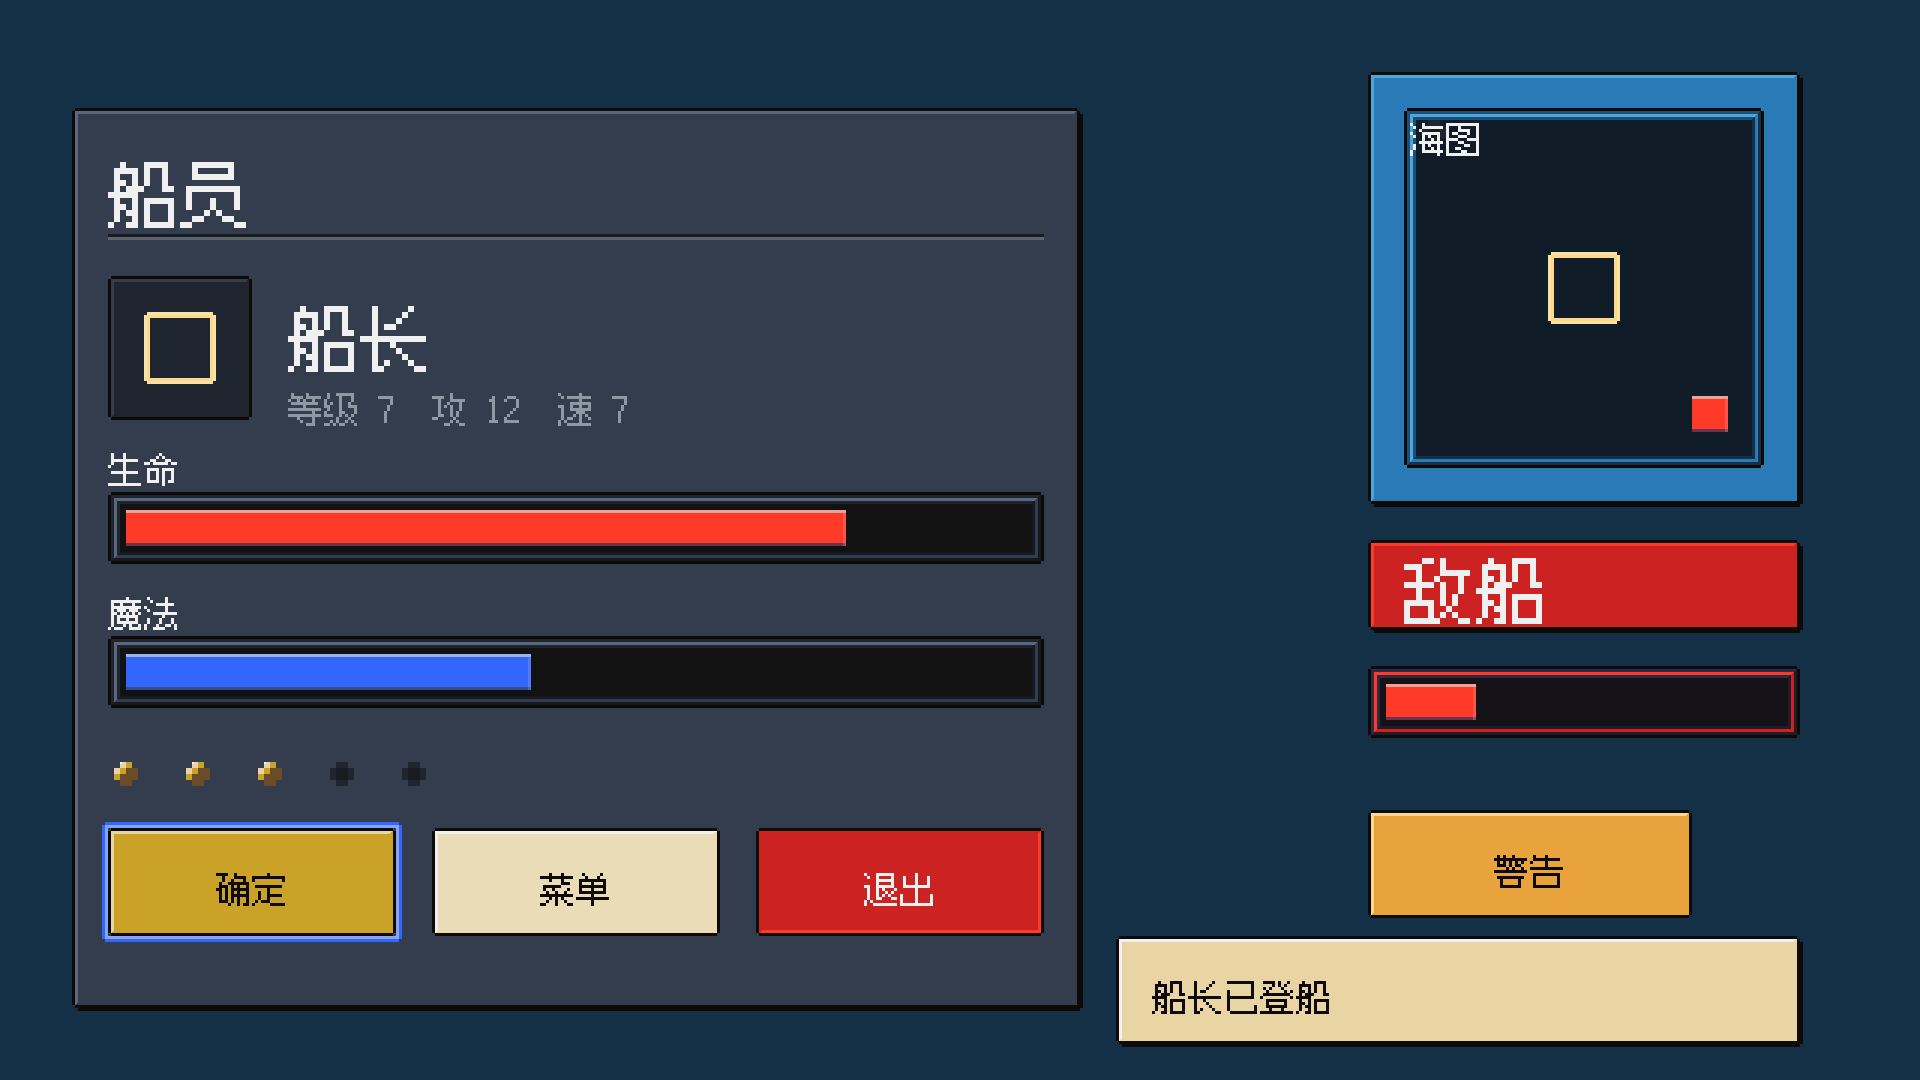
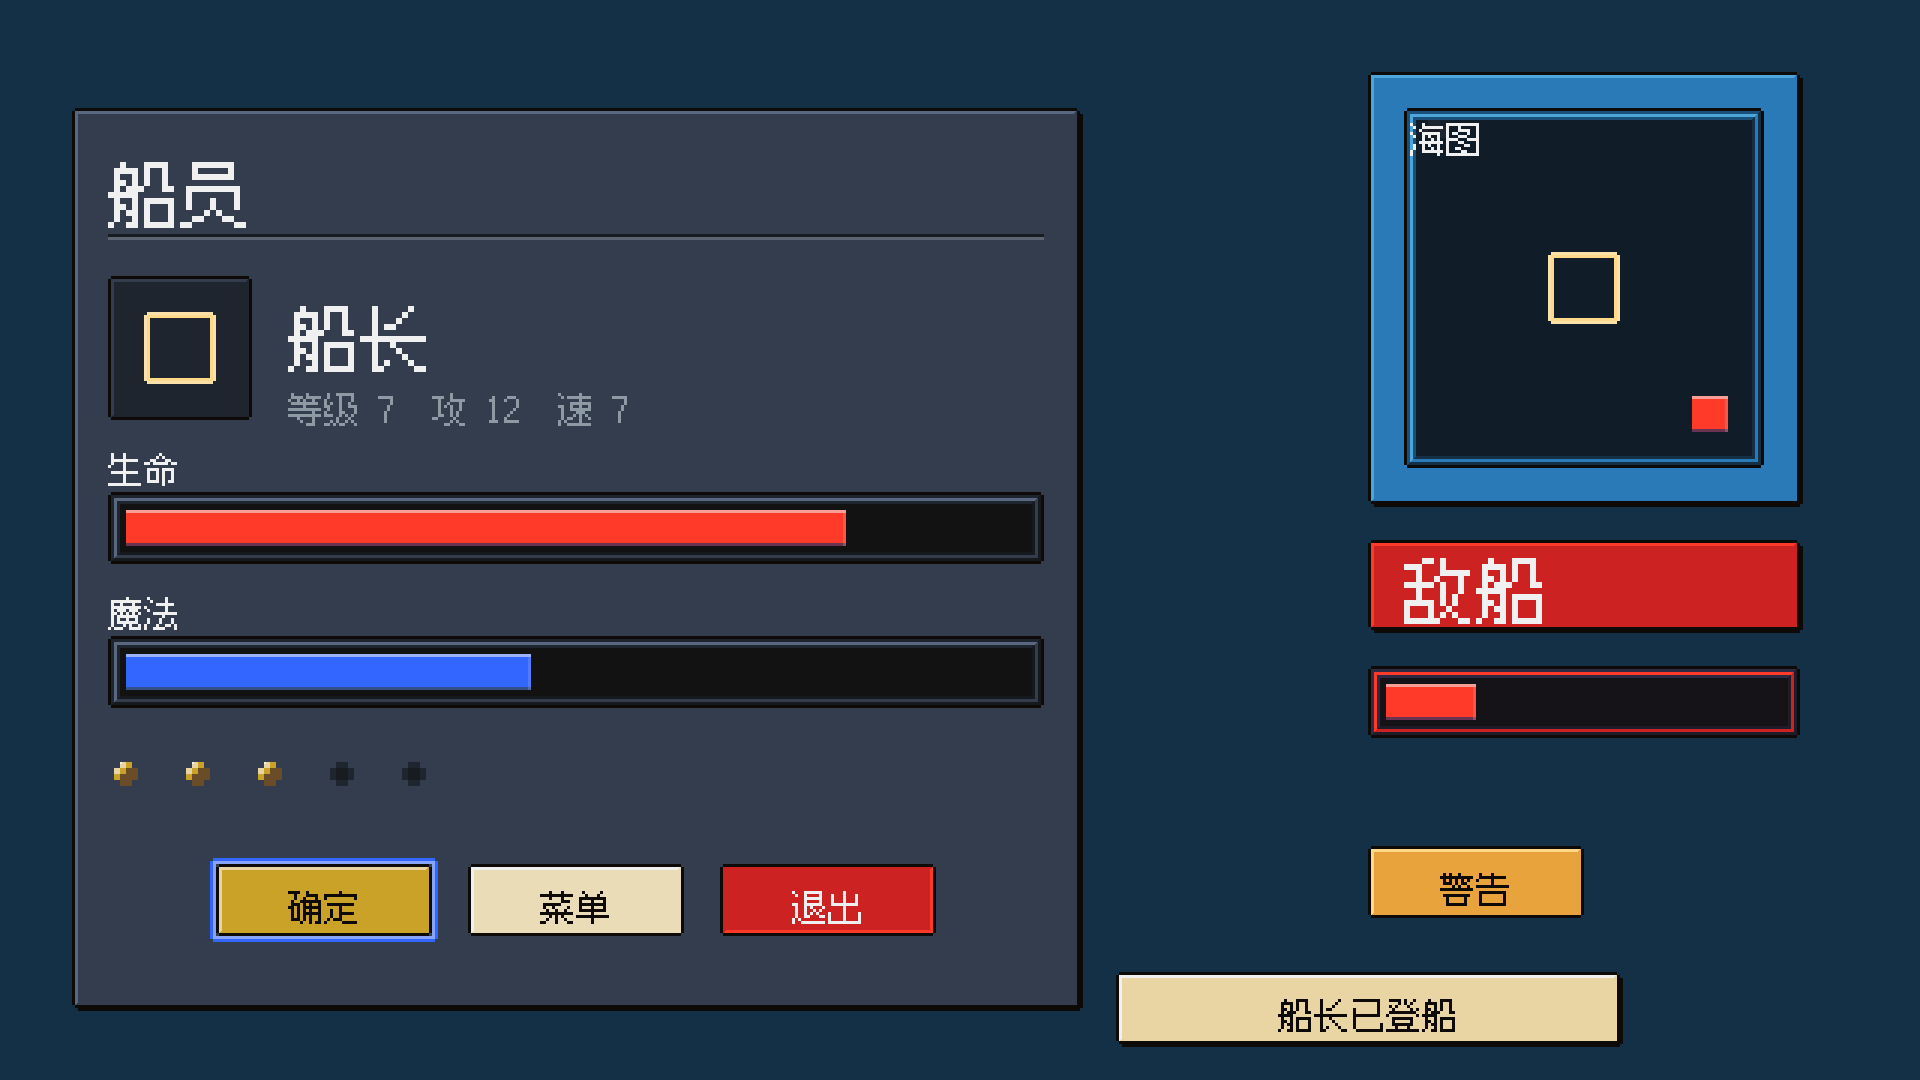
fix(ui): 按钮比例归位（件高 = 件内文字高 + 12）
创始人第六轮走查：按钮大小也都太大了相比文字。根因是令牌表把按钮当成了标题条：
上一版给按钮 36 高而正文字号 12，上下各空 12、比文字高出一倍；宽度又写死 96（标签只占 24）。

- 令牌口径（取代 §42 那两行）：件高 = 件内文字高 + 12（上下各 6）；按钮宽 = 标签宽 + 24
  （左右各 12），不硬撑满行。按钮 12+12 = 24、标题条 24+12 = 36；条高 24 不随字号走（几何定死）。
- showcase：船员卡三按钮 96×36 → 72×24（等宽居中）、焦点环 76×28、警告按钮 72×24、
  Toast 228×36 → 168×24；敌船标题条保持 36（它装 24px 标题，正是这条口径的另一端）。
- 组件总表：面板样件 30 → 24（行距 44 → 38）、页签 72×28 → 48×24、按钮 112×36 → 48×24、
  投影样件 30 → 24，分区标题里的尺寸数字同步。
- 门禁：烘焙判据 BAKE_EXIT=0；Unity EditMode 1307 条 1306 过 0 挂 1 跳过。
- 实机 UI（BattleHudBuilder/MenuUiBuilder/M3UiBuilder）仍是旧尺度，登记在待办 4c 下一轮收口。

Changed region(s): [[0.0312, 0.7333, 0.9375, 0.9778]]

diff --git a/pirate-crew/Assets/Editor/BeveledPixelSpriteBuilder.cs b/pirate-crew/Assets/Editor/BeveledPixelSpriteBuilder.cs
@@ -2327,10 +2327,16 @@ namespace PirateCrew.EditorTools
 
         /// <summary>
         /// 美术稿：**按比例令牌表排**（全屏 640×360 艺术像素 = 1920×1080 屏幕 @3×）。
-        /// 令牌表（art px，基准 = 正文字号 12）：正文 12 / 标题 24 / 条高 24（= 6 框+12 填+6 框，
-        /// 与参照血条同构）/ 按钮高 36、内边距 12 / 面板内边距 12 / 小件：位点 12、环 24、
-        /// 头像格 48、小地图 144。**元素尺寸一律跟着字号走，不许各玩各的**（创始人判过
-        /// "血条这么粗干什么、按钮这么大文字就这么大点"）。
+        /// 令牌表（art px，基准 = 正文字号 12 = **B**）：
+        ///   · 正文 12 / 标题 24（= 2B）；
+        ///   · **容器高 = 件内文字高 + 12**：按钮（正文）12+12 = **24**、标题条（标题）24+12 = 36
+        ///     ——"按钮高 36"是上一版把它当成了标题条，正文按钮因此上下各空 12、比文字高出一倍
+        ///     （创始人 2026-09-22 复核："按钮大小也都太大了相比文字"）；
+        ///   · 按钮宽 = **标签宽 + 24**（不硬撑满行，撑满就把文字泡在一大片空里）；
+        ///   · 条高 24（几何定死：6 框 + 12 填 + 6 框，与参照血条同构，**不随字号走**）；
+        ///   · 面板内边距 12 / 分区间隙 ≥12；小件：位点 12、环 24、头像格 48、小地图 144。
+        /// **元素尺寸一律跟着字号走，不许各玩各的**（创始人判过"血条这么粗干什么、
+        /// 按钮这么大文字就这么大点"）。
         ///
         /// 【文字不在这里画】图上文字要显示**游戏实际用的中文字体**（像素字体），
         /// 而本生成器是纯 CPU 像素、不带字体光栅化——所以这里只出构图 + 文字清单
@@ -2377,14 +2383,15 @@ namespace PirateCrew.EditorTools
                 DrawSized(px, W, i < 3 ? "Pixel_Pip_On" : "Pixel_Pip_Off",
                     (36 + i * 24) * u, 96 * u, 12 * u, 12 * u);
 
-            // 三态按钮（高 36 = 3B，宽 96；常态+焦点环 / 悬停 / 按压）
-            DrawOne(px, W, Tone.Primary, Piece.Plate, State.Normal, 36 * u, 48 * u, 96 * u, 36 * u);
-            DrawSized(px, W, "Pixel_Focus", 34 * u, 46 * u, 100 * u, 40 * u);
-            labels.Add(Label("确定", 72, 288, 12, "ink"));
-            DrawOne(px, W, Tone.Light, Piece.Plate, State.Hovered, 144 * u, 48 * u, 96 * u, 36 * u);
-            labels.Add(Label("菜单", 180, 288, 12, "ink"));
-            DrawOne(px, W, Tone.Danger, Piece.Plate, State.Pressed, 252 * u, 48 * u, 96 * u, 36 * u);
-            labels.Add(Label("退出", 288, 288, 12, "white"));
+            // 三态按钮（高 24 = 正文 12 + 上下各 6；宽 72 = 标签 24 + 左右各 24）
+            // 常态+焦点环 / 悬停 / 按压 —— 三个等宽按钮居中排在内容区（312）里
+            DrawOne(px, W, Tone.Primary, Piece.Plate, State.Normal, 72 * u, 48 * u, 72 * u, 24 * u);
+            DrawSized(px, W, "Pixel_Focus", 70 * u, 46 * u, 76 * u, 28 * u);
+            labels.Add(Label("确定", 96, 294, 12, "ink"));
+            DrawOne(px, W, Tone.Light, Piece.Plate, State.Hovered, 156 * u, 48 * u, 72 * u, 24 * u);
+            labels.Add(Label("菜单", 180, 294, 12, "ink"));
+            DrawOne(px, W, Tone.Danger, Piece.Plate, State.Pressed, 240 * u, 48 * u, 72 * u, 24 * u);
+            labels.Add(Label("退出", 264, 294, 12, "white"));
 
             // ================= 右上：海图小地图（144 = 12B）=================
             DrawShadowAt(px, W, 456 * u, 192 * u, 144 * u, 144 * u);
@@ -2403,12 +2410,12 @@ namespace PirateCrew.EditorTools
             DrawOne(px, W, Tone.Danger, Piece.Track, State.Normal, 456 * u, 114 * u, 144 * u, 24 * u);
             DrawFill(px, W, FillKind.Red, 462 * u, 120 * u, 30 * u, 12 * u);
 
-            DrawOne(px, W, Tone.Warn, Piece.Plate, State.Normal, 456 * u, 54 * u, 108 * u, 36 * u);
-            labels.Add(Label("警告", 498, 282, 12, "ink"));
+            DrawOne(px, W, Tone.Warn, Piece.Plate, State.Normal, 456 * u, 54 * u, 72 * u, 24 * u);
+            labels.Add(Label("警告", 480, 288, 12, "ink"));
 
-            DrawShadowAt(px, W, 372 * u, 12 * u, 228 * u, 36 * u);
-            DrawOne(px, W, Tone.Light, Piece.Plate, State.Normal, 372 * u, 12 * u, 228 * u, 36 * u);
-            labels.Add(Label("船长已登船", 384, 324, 12, "ink"));
+            DrawShadowAt(px, W, 372 * u, 12 * u, 168 * u, 24 * u);
+            DrawOne(px, W, Tone.Light, Piece.Plate, State.Normal, 372 * u, 12 * u, 168 * u, 24 * u);
+            labels.Add(Label("船长已登船", 426, 330, 12, "ink"));
 
             // 1×：1080p 下 1:1 = 实际屏幕像素的整屏外观（验收主图）
             string sheet = WriteZoomedSheet(px, W, H, ShowcaseRelativePath, 1);
@@ -2499,7 +2506,7 @@ namespace PirateCrew.EditorTools
             string[] toneNames = { "面板", "内容", "羊皮纸", "海图", "黄铜", "危险", "警告" };
 
             // ---- ① 面板族：7 tone × 三态（常态 / 悬停 / 按压）----
-            Section("面板 Plate —— 7 个 tone × 三态；件 160×30（令牌：条高 24 / 按钮高 36 / 内边距 12）");
+            Section("面板 Plate —— 7 个 tone × 三态；件 160×24（令牌：条高 24 / 按钮高 = 正文 12 + 12 / 内边距 12）");
             string[] stateNames = { "常态", "悬停", "按压" };
             const int colW = 160, colGap = 12;
             for (int s = 0; s < 3; s++)
@@ -2507,13 +2514,13 @@ namespace PirateCrew.EditorTools
             cursor += 20;
             for (int i = 0; i < tones.Length; i++)
             {
-                int top = cursor + i * 44;
-                RowName(toneNames[i], top, 30);
-                Lay(tones[i], Piece.Plate, State.Normal, 112, top, colW, 30);
-                Lay(tones[i], Piece.Plate, State.Hovered, 112 + colW + colGap, top, colW, 30);
-                Lay(tones[i], Piece.Plate, State.Pressed, 112 + 2 * (colW + colGap), top, colW, 30);
+                int top = cursor + i * 38;
+                RowName(toneNames[i], top, 24);
+                Lay(tones[i], Piece.Plate, State.Normal, 112, top, colW, 24);
+                Lay(tones[i], Piece.Plate, State.Hovered, 112 + colW + colGap, top, colW, 24);
+                Lay(tones[i], Piece.Plate, State.Pressed, 112 + 2 * (colW + colGap), top, colW, 24);
             }
-            cursor += 6 * 44 + 30 + 28;
+            cursor += 6 * 38 + 24 + 28;
 
             // ---- ② 凹槽 Track：按**真实用法**排（槽 + 一段填充），不排 7 色 ----
             // 凹槽的色是"槽框"的色，7 个 tone 各来一条既无用法也无对比（创始人走过这条）；
@@ -2558,8 +2565,8 @@ namespace PirateCrew.EditorTools
             LaySized("Pixel_Pip_On", 208, semTop + 14, 12, 12);     // 位点：亮 / 暗各 12
             LaySized("Pixel_Pip_Off", 228, semTop + 14, 12, 12);
             LaySized("Pixel_Sep_H", 288, semTop + 18, 128, 4);      // 蚀刻分隔线
-            DrawShadowAt(px, W, 432 * u, Y(semTop + 9, 30), 96 * u, 30 * u);
-            Lay(Tone.Frame, Piece.Plate, State.Normal, 432, semTop + 9, 96, 30);
+            DrawShadowAt(px, W, 432 * u, Y(semTop + 8, 24), 96 * u, 24 * u);
+            Lay(Tone.Frame, Piece.Plate, State.Normal, 432, semTop + 8, 96, 24);
             string[] semNames = { "选人圈", "焦点框", "位点 亮/暗", "分隔线", "投影" };
             int[] semX = { 112, 160, 208, 288, 432 };
             for (int i = 0; i < semNames.Length; i++)
@@ -2572,28 +2579,28 @@ namespace PirateCrew.EditorTools
             Lay(Tone.Frame, Piece.Plate, State.Normal, 24, cursor + 26, 592, 60);
             for (int i = 0; i < tabNames.Length; i++)
             {
-                int x = 40 + i * 88;
-                Lay(i == 1 ? Tone.Light : Tone.Dense, Piece.Tab, State.Normal, x, cursor, 72, 28);
-                labels.Add(Label(tabNames[i], x + 24, cursor + 8, 12, i == 1 ? "ink" : "white"));
+                int x = 40 + i * 60;
+                Lay(i == 1 ? Tone.Light : Tone.Dense, Piece.Tab, State.Normal, x, cursor, 48, 24);
+                labels.Add(Label(tabNames[i], x + 12, cursor + 6, 12, i == 1 ? "ink" : "white"));
             }
-            cursor += 26 + 60 + 28;
+            cursor += 24 + 60 + 28;
 
             // ---- ⑥ 三态按钮：常态（带焦点环）/ 悬停 / 按压 / 警告 ----
-            Section("按钮 —— 常态（带焦点环）/ 悬停 / 按压 / 警告；件 112×36（令牌：按钮高 36）");
+            Section("按钮 —— 常态（带焦点环）/ 悬停 / 按压 / 警告；件 48×24 = 标签 24 + 上下各 6 / 左右各 12");
             string[] btnNames = { "确定", "菜单", "退出", "警告" };
-            cursor += 16;
+            cursor += 12;
             for (int i = 0; i < 4; i++)
             {
-                int x = 112 + i * 128;
+                int x = 112 + i * 60;                                   // 件 48 + 间隙 12
                 Tone tone = i == 0 ? Tone.Primary : i == 1 ? Tone.Light : i == 2 ? Tone.Danger : Tone.Warn;
                 State state = i == 1 ? State.Hovered : i == 2 ? State.Pressed : State.Normal;
-                Lay(tone, Piece.Plate, state, x, cursor, 112, 36);
+                Lay(tone, Piece.Plate, state, x, cursor, 48, 24);
                 if (i == 0)
-                    LaySized("Pixel_Focus", x - 2, cursor - 2, 116, 40);   // 焦点环：件外扩 2
+                    LaySized("Pixel_Focus", x - 2, cursor - 2, 52, 28);   // 焦点环：件外扩 2
                 // 字色按脸色的亮暗走：暖白牌（提亮 tone）上用墨色，暗牌上用白
-                labels.Add(Label(btnNames[i], x + 44, cursor + 12, 12, i == 1 ? "ink" : "white"));
+                labels.Add(Label(btnNames[i], x + 12, cursor + 6, 12, i == 1 ? "ink" : "white"));
             }
-            cursor += 36;
+            cursor += 24;
 
             // ---- 按游标裁掉下方空白：图多高由内容定，不用手调常量 ----
             // 布局按"距顶"写、画布按"距底"存，内容因此落在画布的**末尾** cursor 行——

diff --git a/docs/项目/待办事项.md b/docs/项目/待办事项.md
@@ -193,7 +193,12 @@
         凹槽段改真实用法（生命/魔法/敌船条 + 一大内嵌槽，不再排 7 色）；
         出图去掉误导的 `-1x` 后缀（`showcase.png` / `components.png`，尺度印在图上）。
         门禁 1307/1306/0。见交接 §43
-  - [ ] 步骤 4c 遗留（按需）：**UI 字体样张已出**
+  - [x] 步骤 4b 三次修正轮：**按钮比例归位**（2026-09-22，创始人第六轮走查"按钮大小也都太大了相比文字"）——
+        令牌口径改成 **件高 = 件内文字高 + 12**（按钮 12+12 = 24、标题条 24+12 = 36）、
+        **按钮宽 = 标签宽 + 24**（不硬撑满行）；showcase 与组件总表按新尺寸重排（见交接 §44）
+  - [ ] 步骤 4c 遗留（按需）：**实机 UI 尚未按新令牌复核**（`BattleHudBuilder`/`MenuUiBuilder`/
+        `M3UiBuilder` 的按钮仍是旧尺度，如 BattleHud 45px 模式按钮、血条 24/按钮 24/内边距 12 未逐条过）；
+        **UI 字体样张已出**
         （[docs/images/ui-font/README.md](../images/ui-font/README.md)）：推荐 **缝合像素 Fusion Pixel 12px
         （OFL，简体）**——颗粒与 3× UI 同频；落地走"动态图集 + Raster 位图口径 + 12px 采样 ×3 显示"
         （SDFAA 会糊边，要给 FontAssetBuilder 加一档像素字体配置）。**待创始人点头后落地**、
